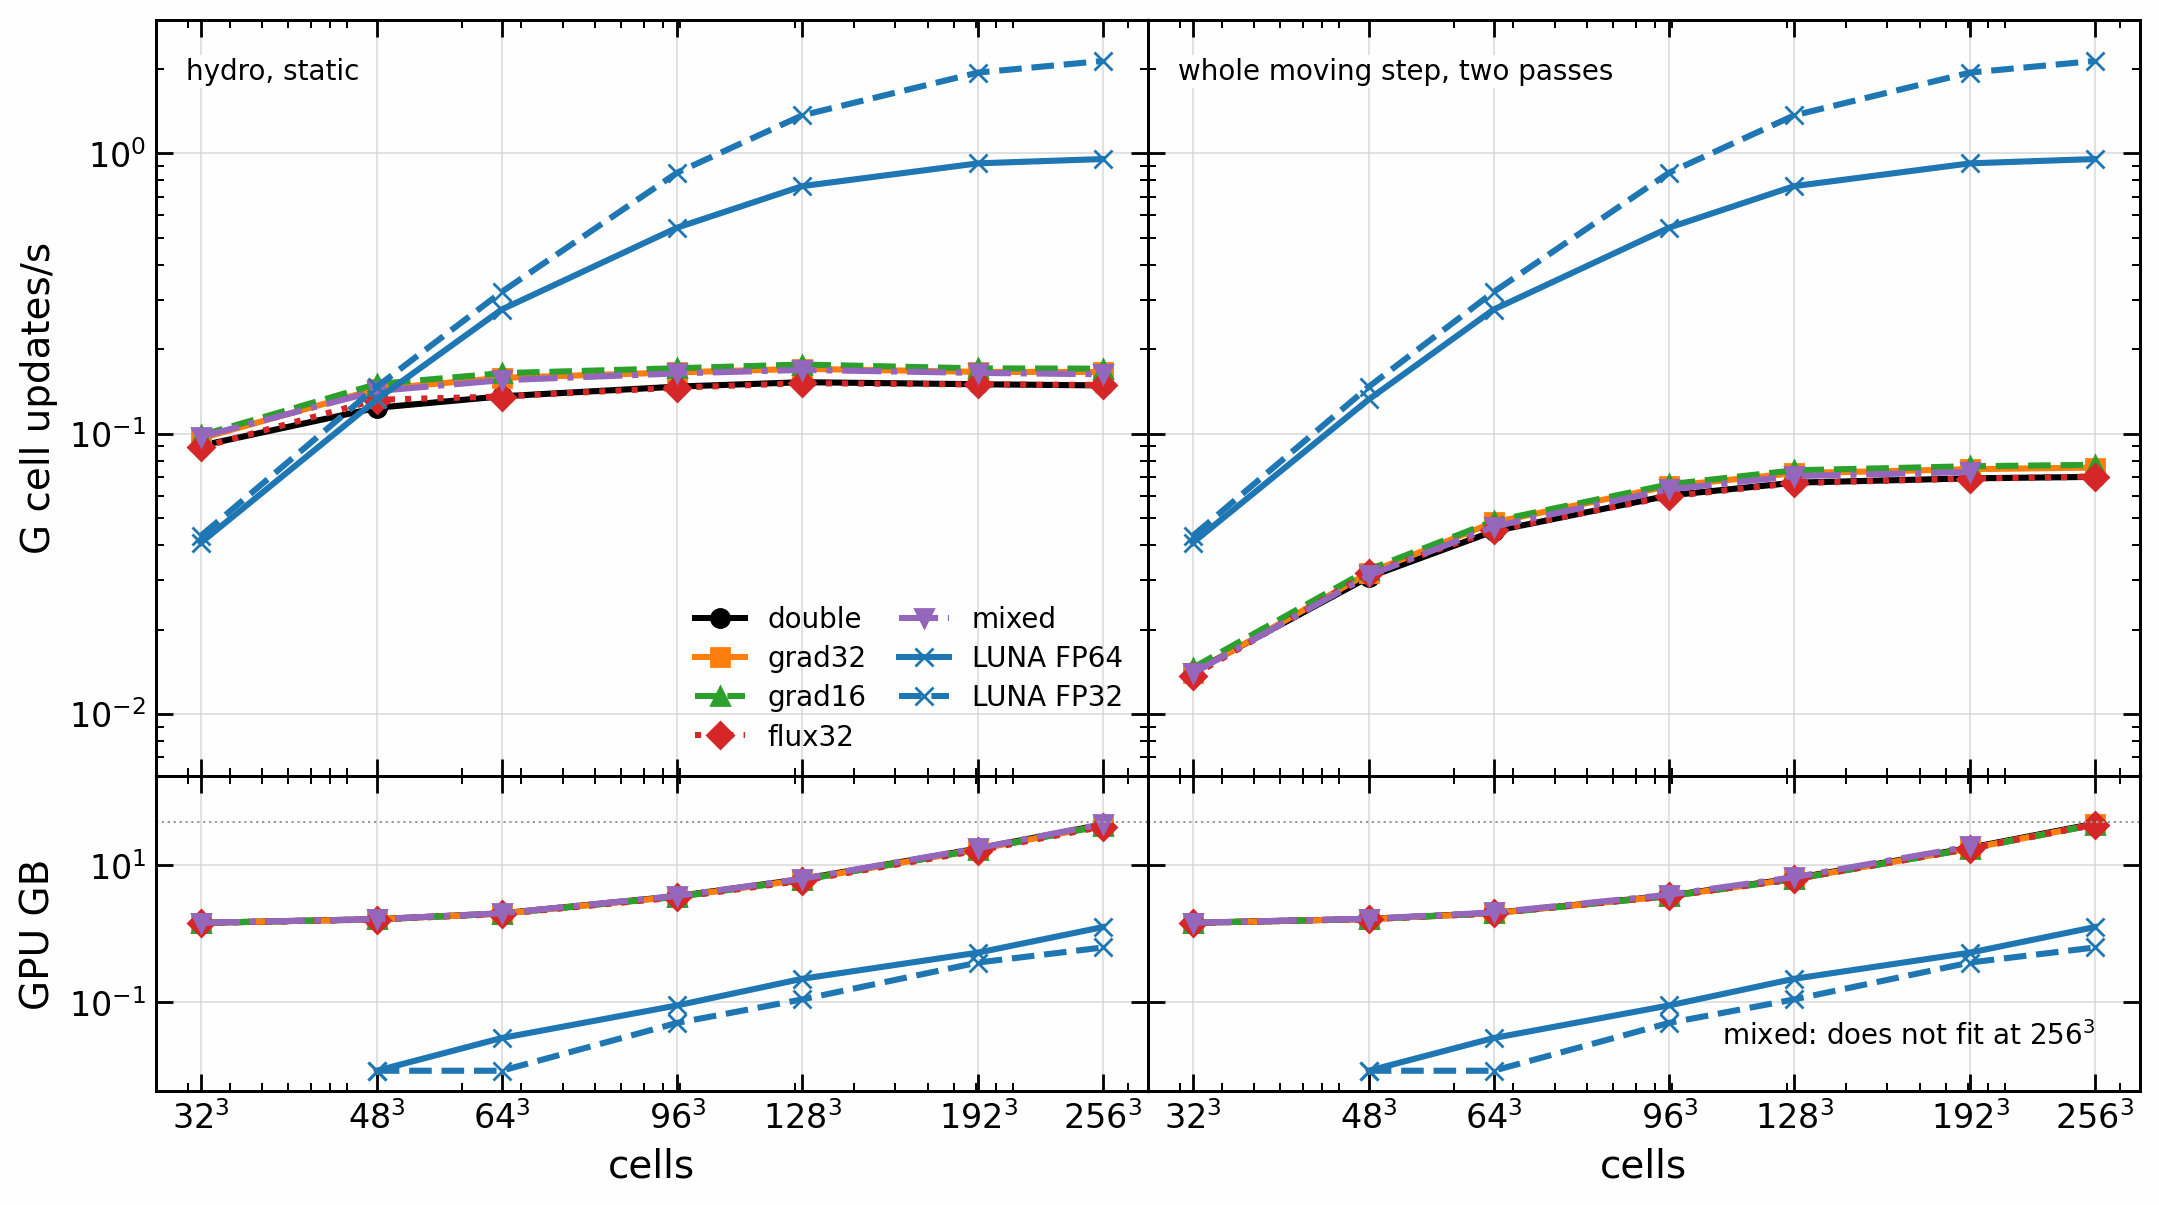
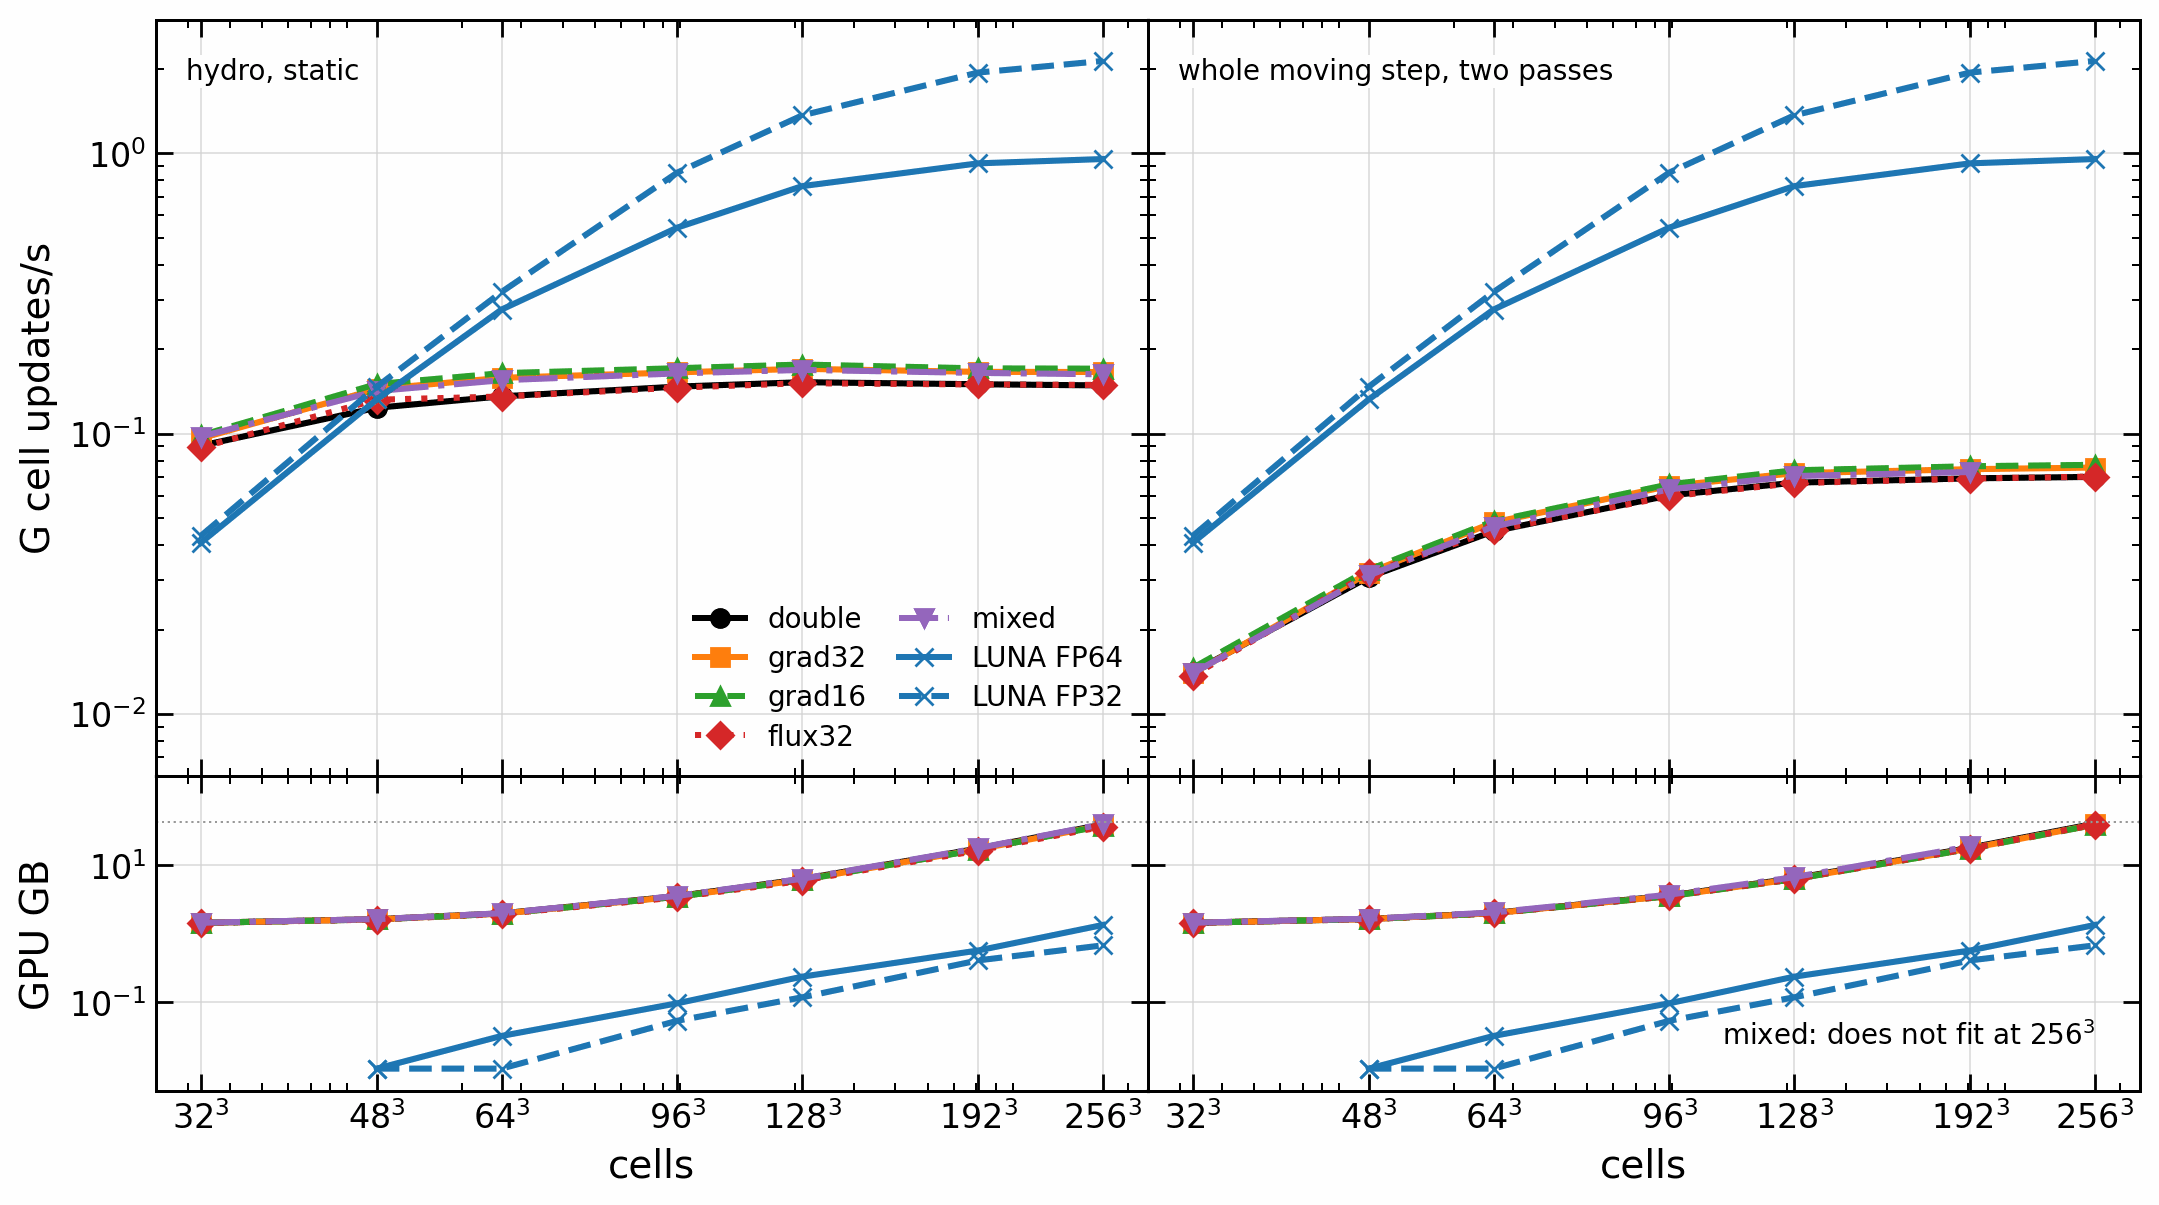
Memory in one set of units: bytes per cell and GB of 10⁹ bytes for both codes; LUNA's GiB converted, and what each measures

Changed region(s): [[0.6207, 0.7676, 0.9931, 0.8905], [0.1862, 0.7676, 0.5276, 0.8905]]

diff --git a/scripts/make_figures.py b/scripts/make_figures.py
@@ -71,6 +71,7 @@ cmp1d = importlib.util.module_from_spec(spec)
 spec.loader.exec_module(cmp1d)
 
 apply_style()
+LUNA_GIB = 1024 ** 3 / 1e9  # LUNA prints memory in GiB, labelled GB
 LUNA_C, STATIC_C, MOVING_C = "C0", "C1", "C2"
 LW = 2.2  # every curve; connectors, zoom boxes, cell edges and guide lines stay thin
 STYLE = {"luna": dict(color=LUNA_C, ls="-", marker="o", lw=LW, zorder=2),
@@ -983,7 +984,7 @@ def scaling_log():
             perf = [float(x) for x in re.findall(r"perf = ([\d.]+) Mcells", block)]
             if perf:
                 luna[int(head[1])].append(statistics.median(perf))
-                memory[int(head[1])] = 1e3 * float(re.findall(r"mem = ([\d.]+) GB", block)[-1])
+                memory[int(head[1])] = 1e3 * LUNA_GIB * float(re.findall(r"mem = ([\d.]+) GB", block)[-1])
     return {k: {f: statistics.median(r[f] for r in rows) for f in rows[0]} for k, rows in ours.items()}, luna, memory
 
 
@@ -1011,7 +1012,7 @@ def fig_throughput():
     low.loglog(x, [ours[s, "two-pass"]["gpu_MB"] / 1e3 for s in sides], color=MOVING_C, marker="D", label="ours, two passes, GPU in use", **style)
     low.loglog(x, [ours[s, "two-pass"]["views_MB"] / 1e3 for s in sides], color=MOVING_C, ls="--", marker="D", mfc="white", label="ours, Kokkos views", **style)
     kept = [s for s in shown if memory[s] >= 10]  # LUNA prints two decimals of a GB
-    low.loglog([s ** 3 for s in kept], [memory[s] / 1e3 for s in kept], color=LUNA_C, marker="o", label="LUNA, reported", **style)
+    low.loglog([s ** 3 for s in kept], [memory[s] / 1e3 for s in kept], color=LUNA_C, marker="o", label="LUNA, in use", **style)
     low.axhline(42.4, color="0.6", lw=0.8, ls=":")  # the A100's memory
     low.set_ylabel("peak GB")
     low.set_xlabel("cells")
@@ -1031,7 +1032,7 @@ def precision_log():
             if perf:
                 key = int(head[1]), "FP64" if head[2] == "x64=1" else "FP32"
                 luna[key].append(statistics.median(perf) * 1e-3)
-                memory[key] = float(re.findall(r"mem = ([\d.]+) GB", block)[-1])
+                memory[key] = LUNA_GIB * float(re.findall(r"mem = ([\d.]+) GB", block)[-1])
         elif head[0] == "ours":
             side, mesh, preset = int(head[1]), head[2], head[3].split("=")[1]
             speed = re.search(r"^throughput_M_per_s: (.*)$", block, re.M)
@@ -1091,7 +1092,7 @@ def dims_log(dim):
             perf = [float(x) for x in re.findall(r"perf = ([\d.]+) Mcells", block)]
             if perf:
                 luna[cells].append(statistics.median(perf) * 1e-3)
-                memory[cells] = float(re.findall(r"mem = ([\d.]+) GB", block)[-1])
+                memory[cells] = LUNA_GIB * float(re.findall(r"mem = ([\d.]+) GB", block)[-1])
             continue
         if head[0] != "ours":
             continue

diff --git a/README.md b/README.md
@@ -226,8 +226,11 @@ Measured on one A100 at 1305 MHz, Sedov 3D, 40 steps, LUNA in the same job. G ce
 | moving mesh, whole step with the mesh update | 0.072 | 0.076 |
 | LUNA, MC, HLLC, FP64 | 0.47 to 0.76 | 0.87 |
 | LUNA, FP32 | 0.68 | 1.74 |
-| device memory, moving | 2255 B/cell | 2255 B/cell |
-| device memory, LUNA FP64 | 0.22 GB | 1.25 GB |
+| GPU memory, ours, moving | 2255 B/cell (4.7 GB) | 2255 B/cell (37.8 GB) |
+| GPU memory, LUNA FP64 | 113 B/cell (0.24 GB) | 80 B/cell (1.34 GB) |
+| GPU memory, LUNA FP32 | | 40 B/cell (0.68 GB) |
+
+Memory is in bytes per cell and in GB of 10⁹ bytes throughout. Ours is the peak of all the arrays the code allocates during a step; LUNA's is what JAX reports in use at a progress line (LUNA prints it in GiB, converted here), so it is not a peak and the two measure slightly different things.
 
 ### Against resolution
 
